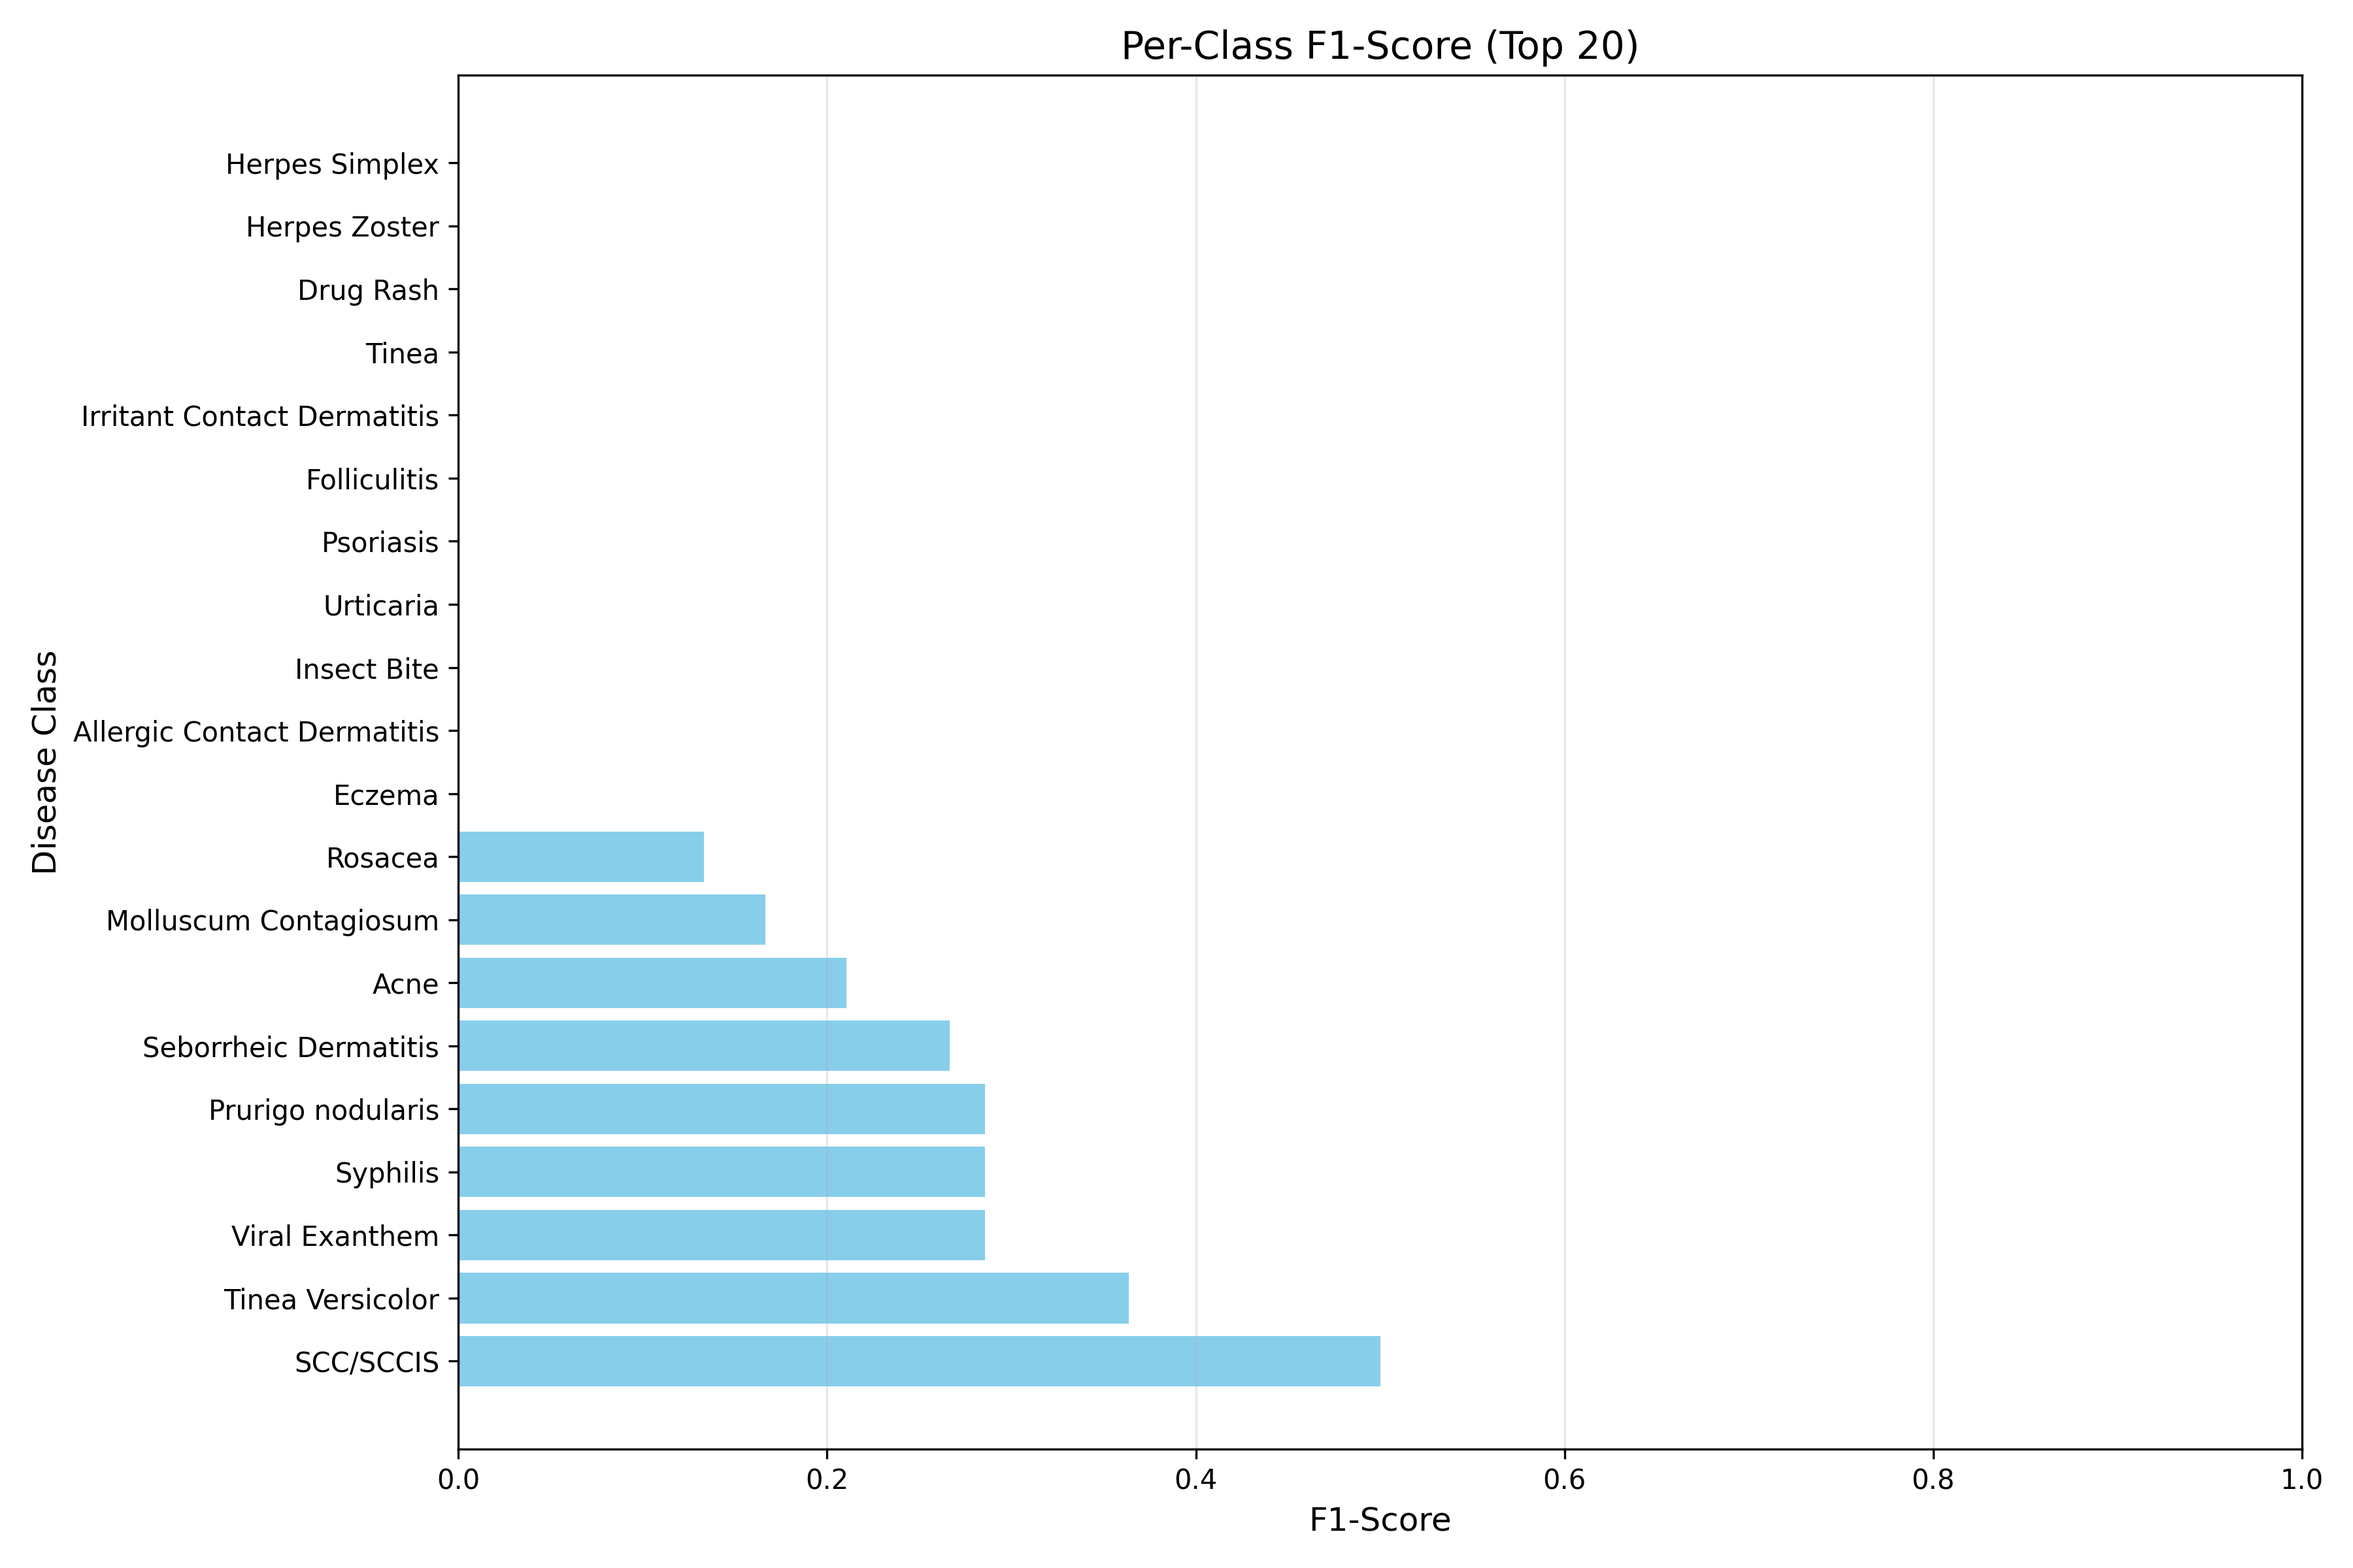
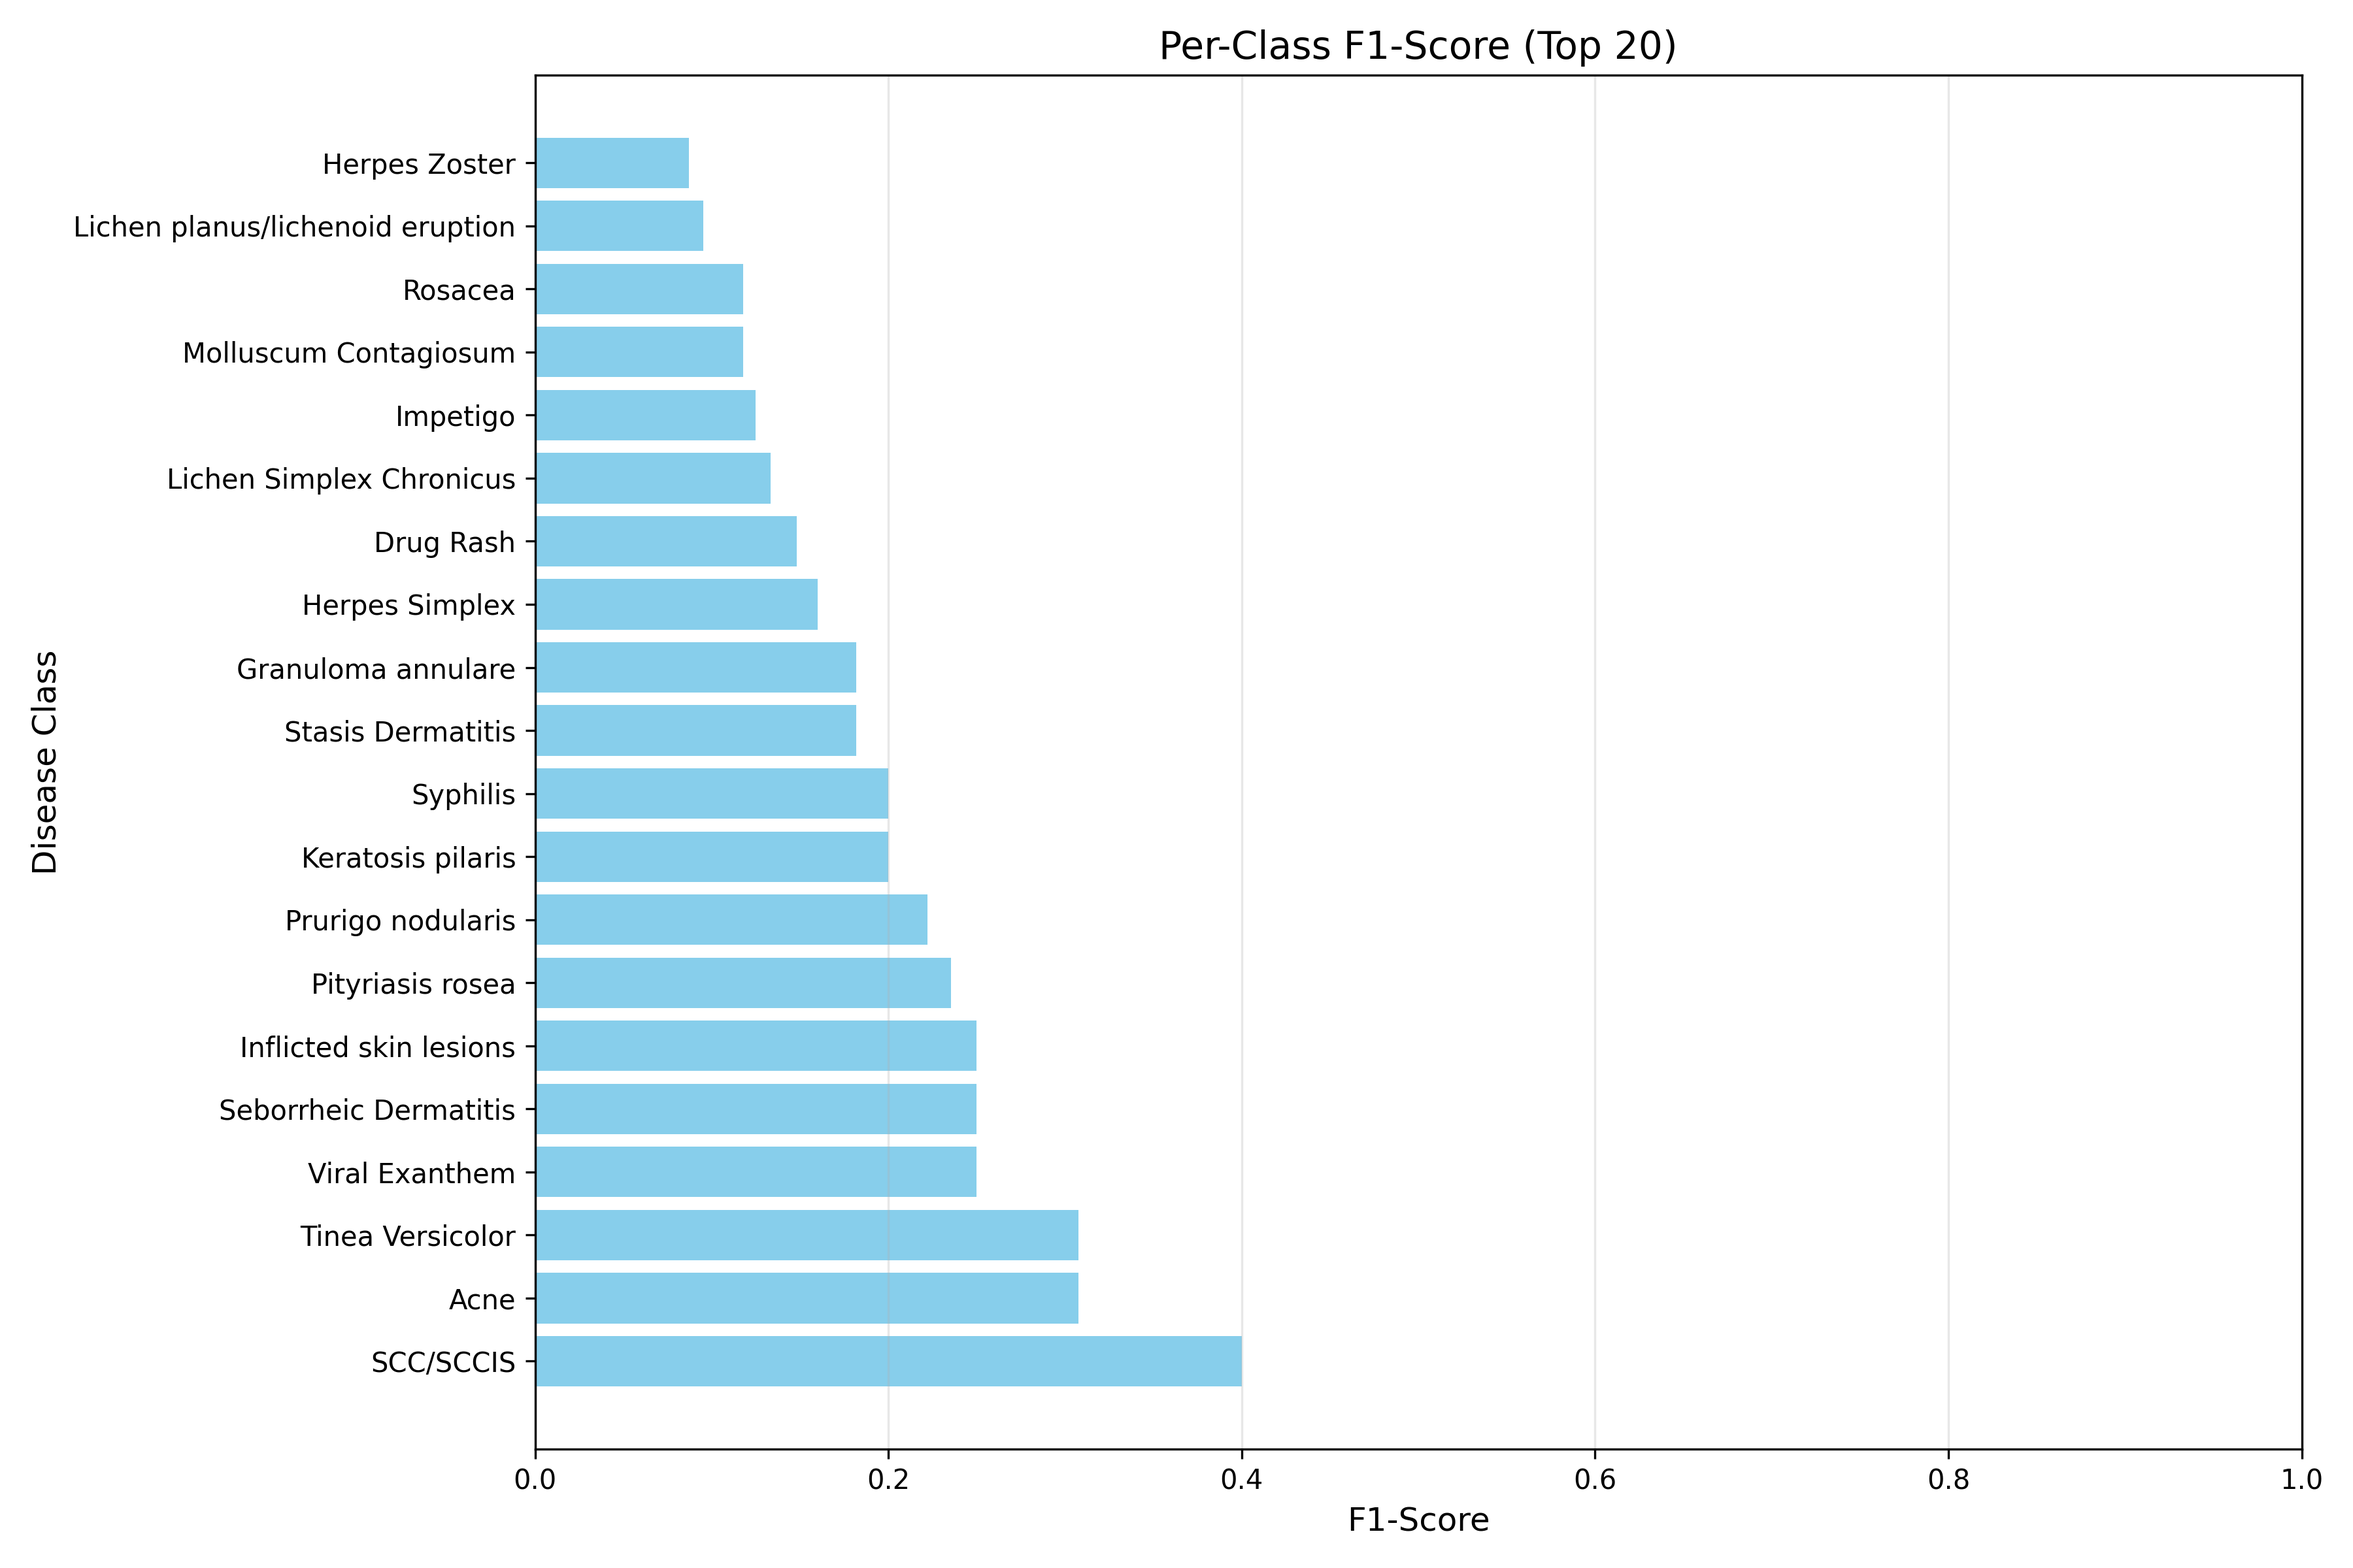
ResNet50 평가 update

diff --git a/scin/README.md b/scin/README.md
@@ -297,10 +297,10 @@ python evaluate.py \
     --image_root ../data/scin_dataset \
     --output_dir ./evaluation_results_efficientnet \
     --batch_size 32 \
-    --threshold 0.5 \
+    --threshold 0.3 \
     --num_workers 0
 
-# ResNet50 평가 (레거시)
+# ResNet50 평가 (레거시, Recall 최적화)
 python evaluate.py \
     --model_type resnet50 \
     --checkpoint ../checkpoints/checkpoint_best.pth \
@@ -308,7 +308,7 @@ python evaluate.py \
     --image_root ../data/scin_dataset \
     --output_dir ./evaluation_results_resnet50 \
     --batch_size 32 \
-    --threshold 0.5 \
+    --threshold 0.3 \
     --num_workers 0
 ```
 
@@ -319,7 +319,10 @@ python evaluate.py \
 - `--image_root`: 원본 이미지 디렉토리
 - `--output_dir`: 평가 결과 저장 디렉토리 (기본값: ./evaluation_results)
 - `--batch_size`: 배치 크기 (기본값: 32)
-- `--threshold`: 이진 분류 임계값 (기본값: 0.5)
+- `--threshold`: 이진 분류 임계값 (다중 라벨 예측 민감도 조정)
+  - **0.3 (권장)**: Recall 향상, F1-Score 최적화 - 예측 가능 클래스 증가
+  - **0.2**: Recall 극대화 (Precision 저하 가능)
+  - **0.5 (기본)**: Precision 우선, 보수적 예측
 - `--num_workers`: DataLoader 워커 수 (Apple Silicon: 0, 기본값: 4)
 
 **출력 파일**:
